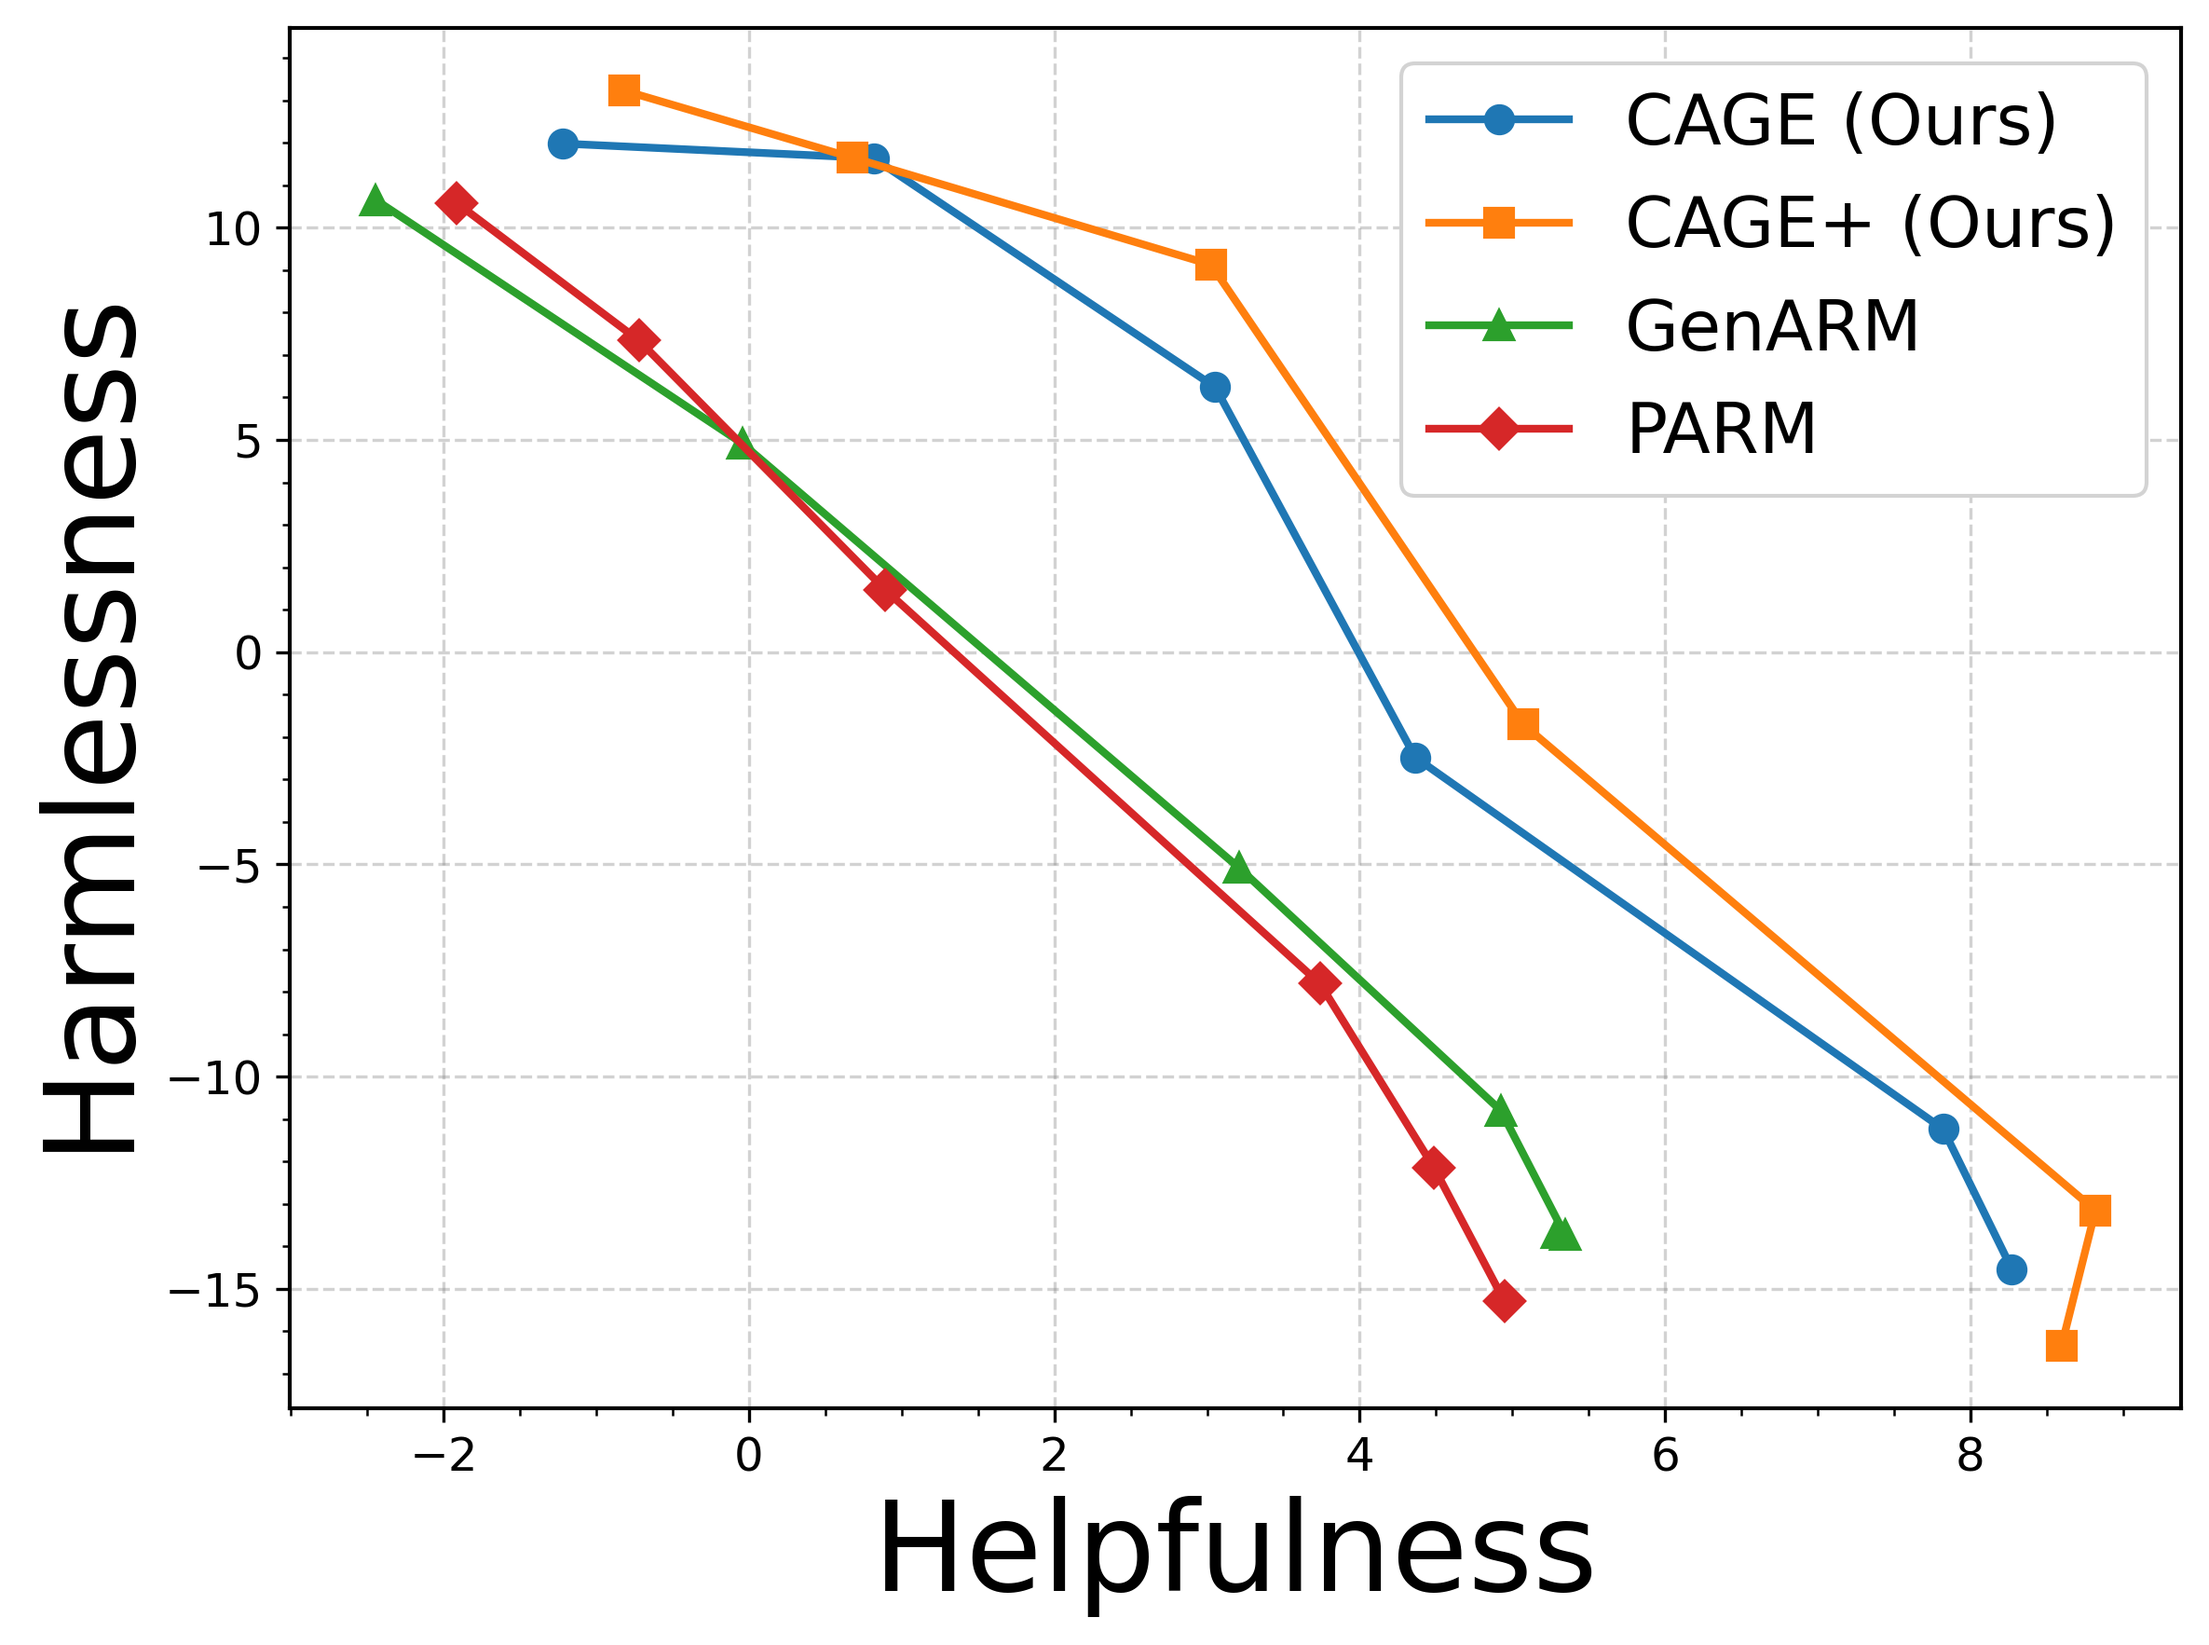
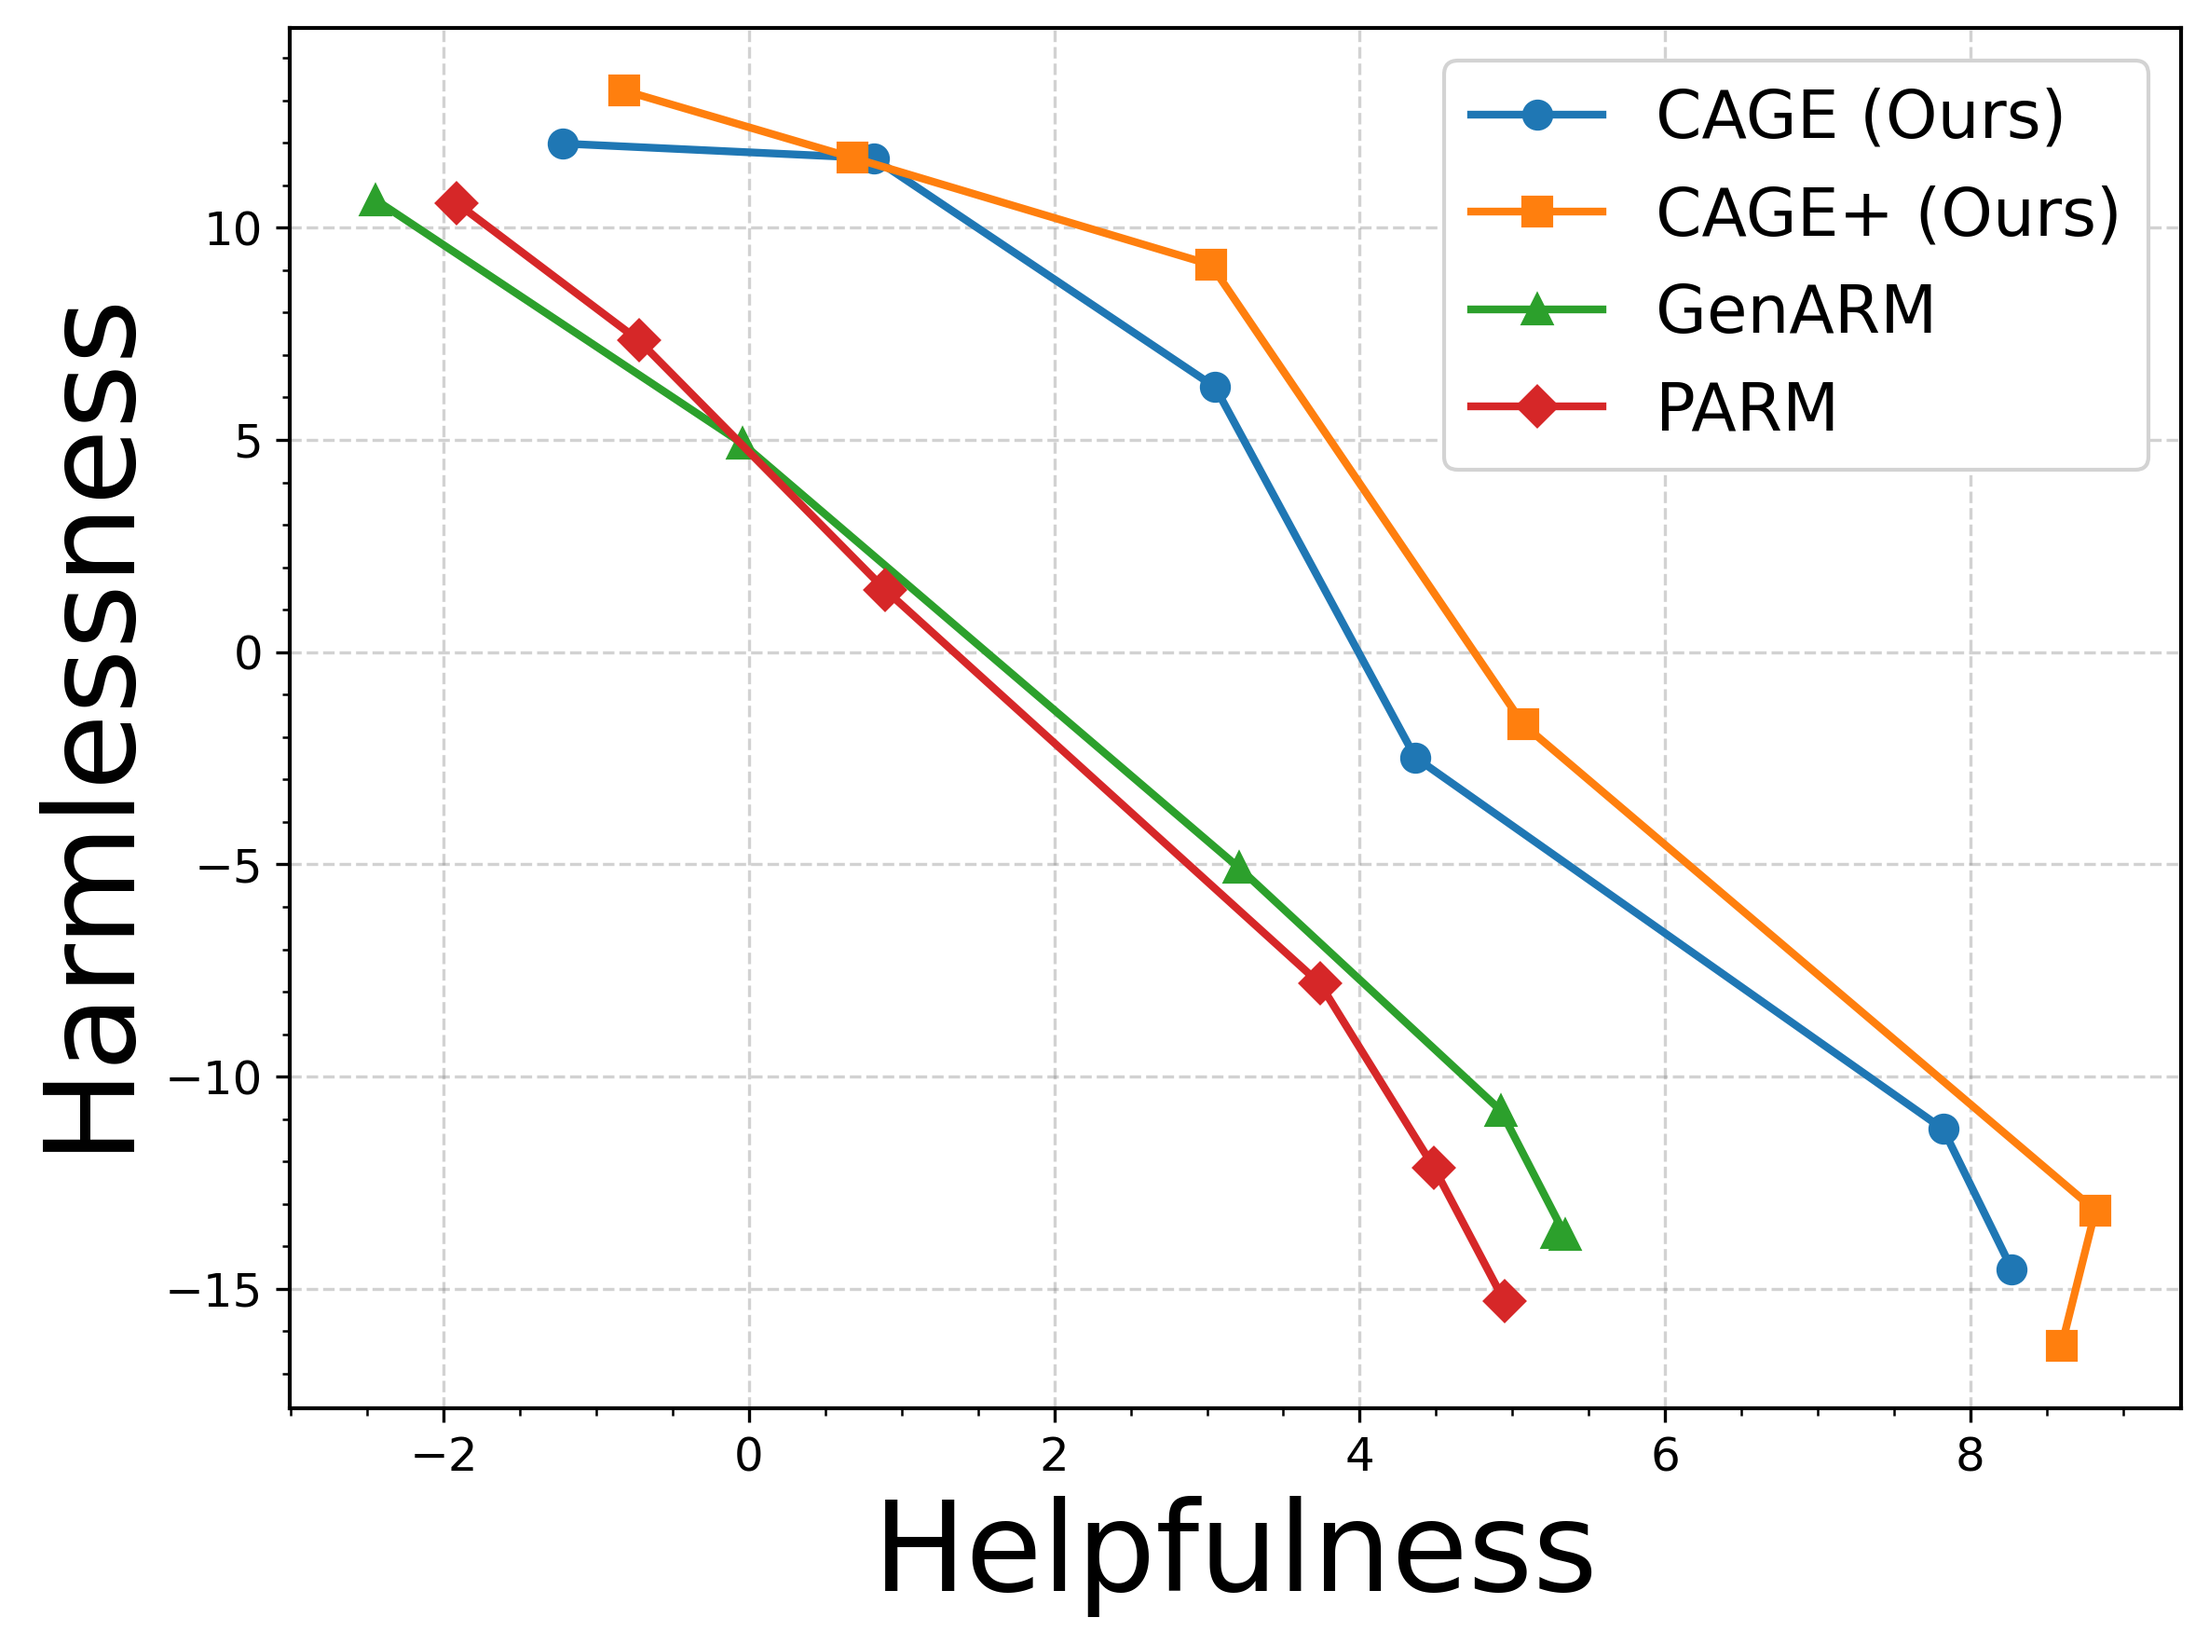
Update epec parm 0.1 0.9 results

Changed region(s): [[0.6242, 0.0312, 0.9675, 0.3116]]

diff --git a/code/evaluation/plot_pareto_tau.py b/code/evaluation/plot_pareto_tau.py
@@ -47,8 +47,8 @@ PARM_BASELINE_DIR = BASE_DIR / "results_parm"
 # ============================================================
 # tau and k
 # ============================================================
-TAU = 0.1
-K = 100
+TAU = 0.4
+K = 50
 
 SENS_DIR = BASE_DIR / "sensitivity analysis_new"
 RUN_DIR = SENS_DIR / f"tau={TAU}_N={K}"
@@ -589,7 +589,7 @@ def main():
         facecolor="white",
         edgecolor="lightgray",
         framealpha=1.0,
-        fontsize=18,
+        fontsize=17,
     )
 
     plt.tight_layout()
